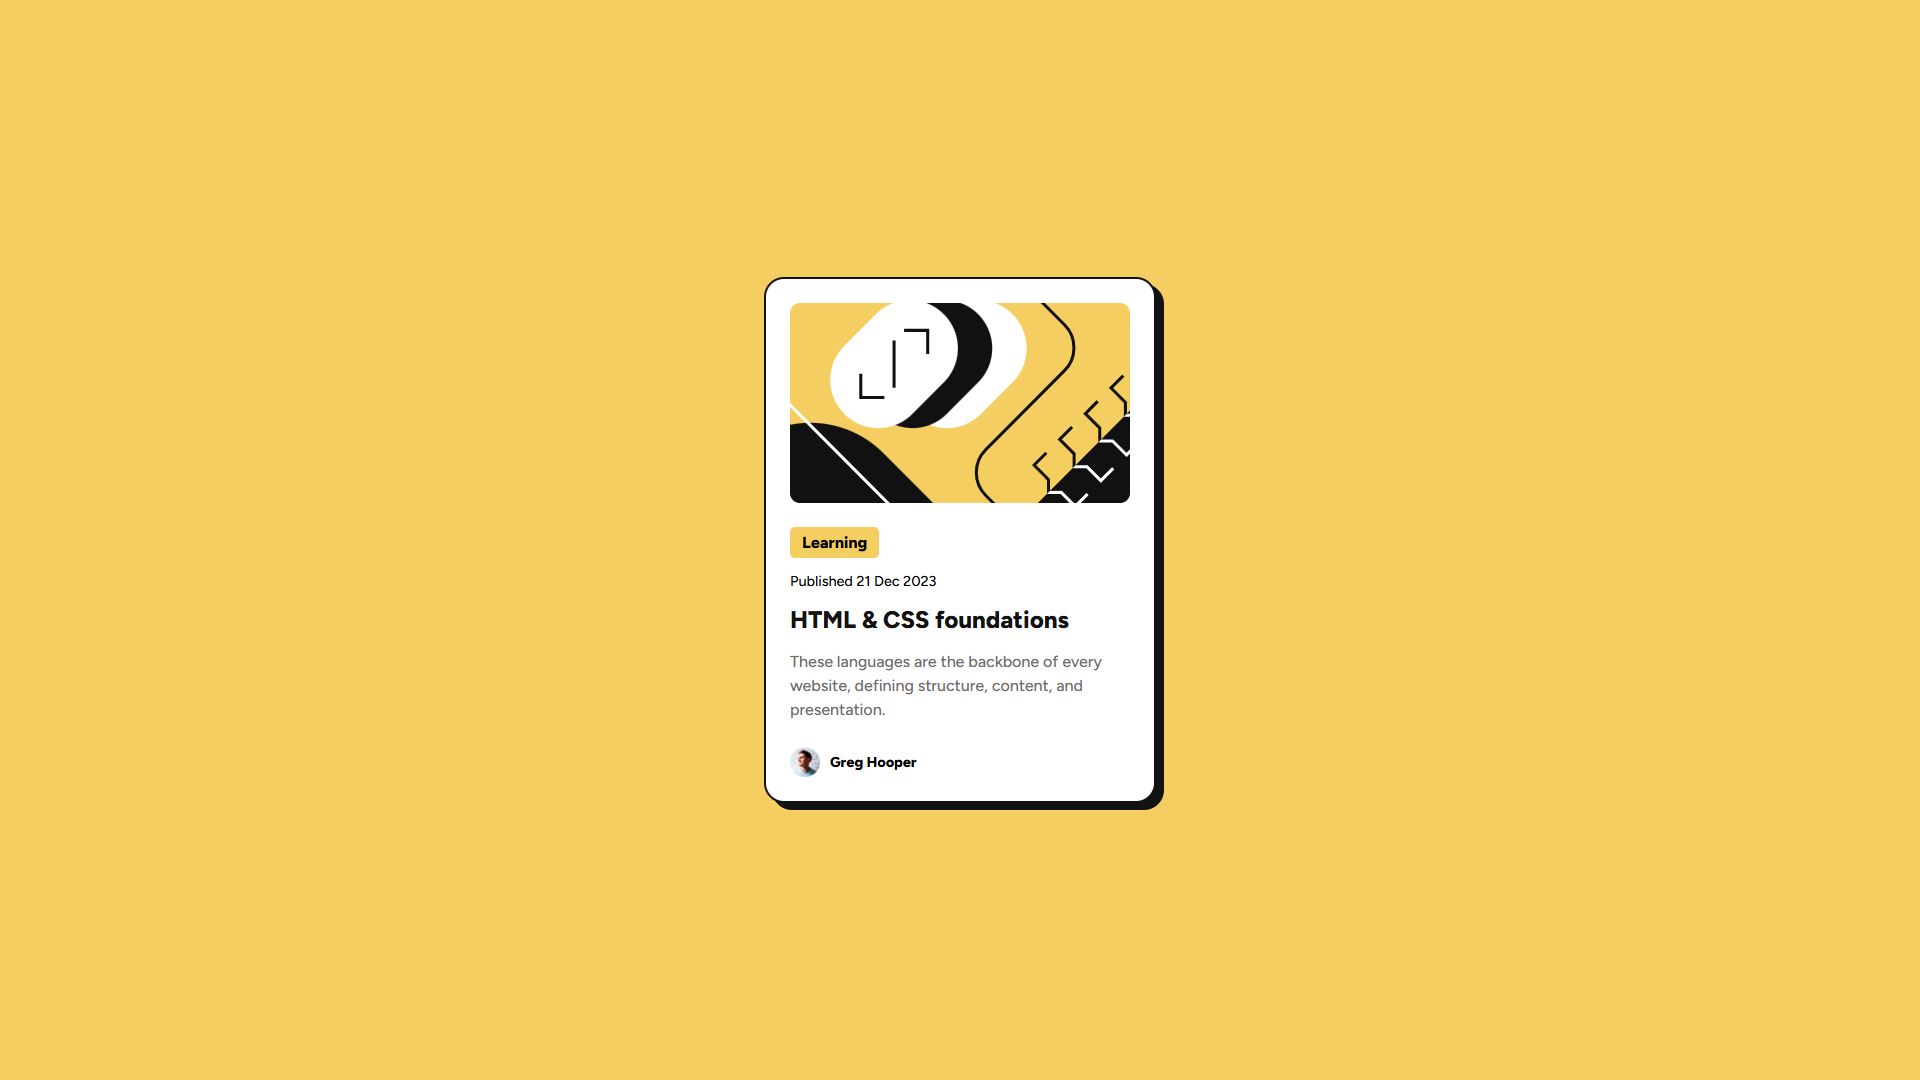
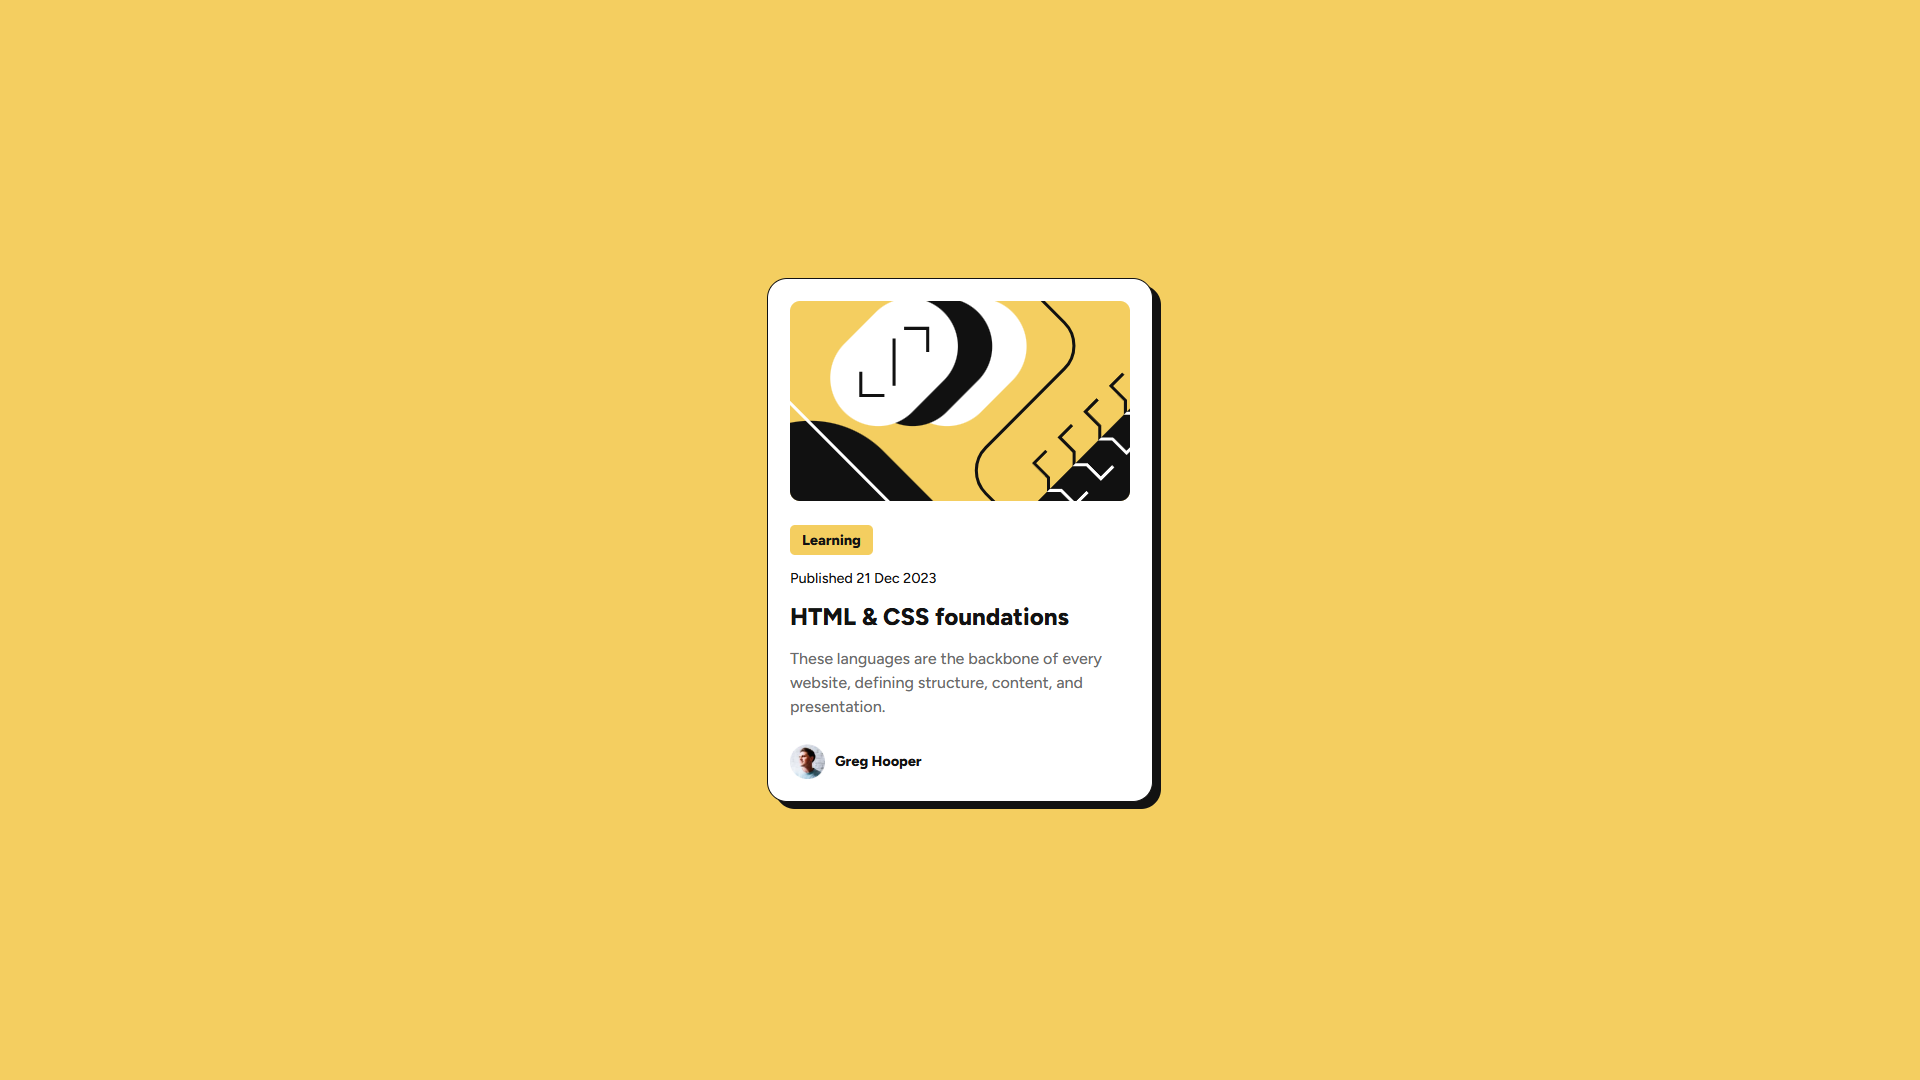
Adjust styles for more accurate design

diff --git a/styles.css b/styles.css
@@ -26,11 +26,11 @@ body {
 
 #blog-card {
     width: 340px;
-    border: 2px solid var(--color-4);
+    border: 1px solid var(--color-4);
     border-radius: 20px;
     box-shadow: 8px 7px var(--color-4);
     background-color: var(--color-2);
-    padding: 24px;
+    padding: 22px;
 }
 
 .banner {
@@ -47,11 +47,14 @@ body {
     padding: 6px 12px;
     border-radius: 5px;
     font-weight: 800;
+    font-size: 0.9em;
+    color: var(--color-4);
 }
 
 #date {
     font-size: 0.9em;
     font-weight: 500;
+    color: var(--color-4);
 }
 
 #title {
@@ -79,10 +82,11 @@ body {
 }
 
 #author .avatar {
-    width: 30px;
+    width: 35px;
 }
 
 #author-name {
     font-size: 0.9em;
     font-weight: 800;
+    color: var(--color-4);
 }
